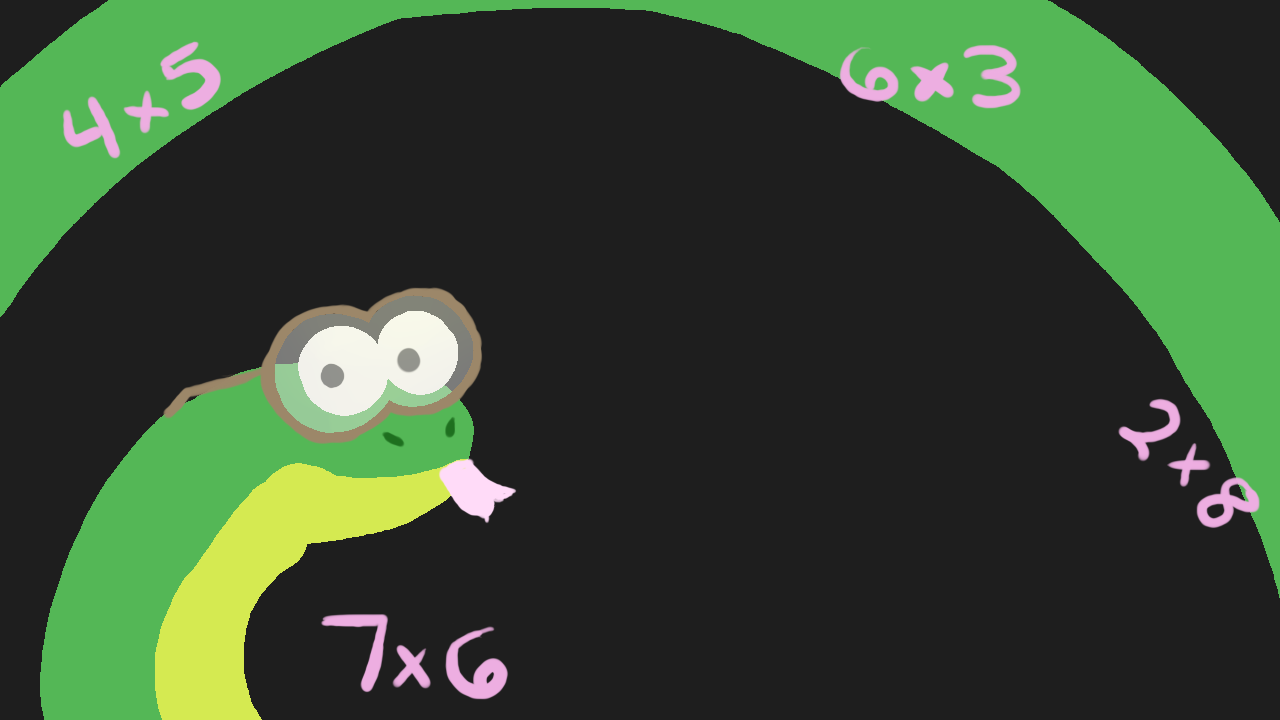
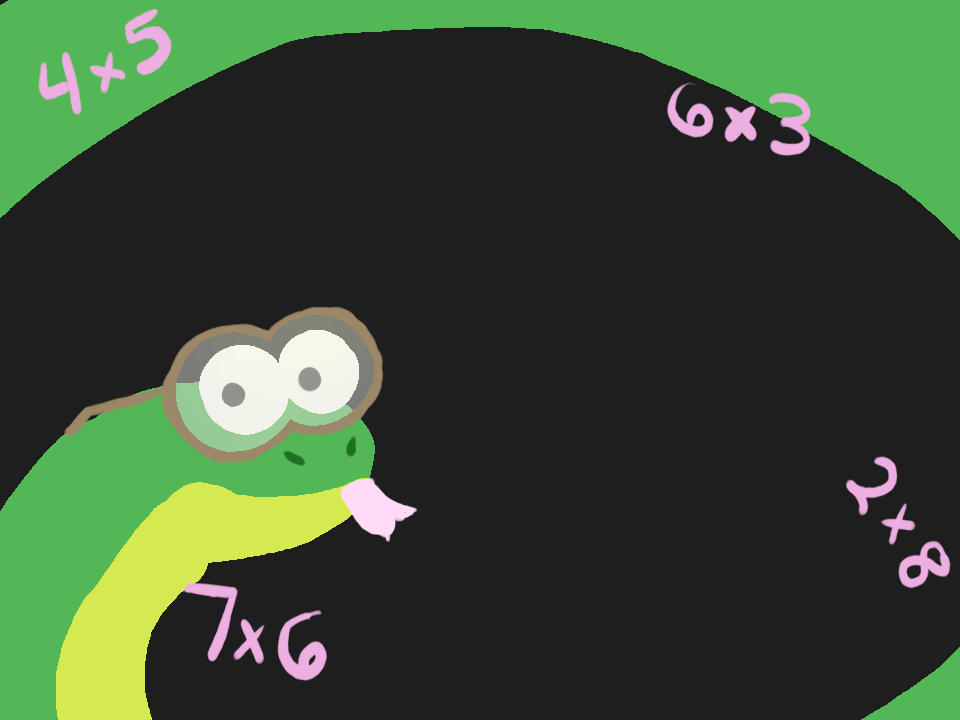
updated assets

diff --git a/mainGame.py b/mainGame.py
@@ -56,12 +56,12 @@ class gameClass:
         assets = path.join(path.dirname(__file__), 'assets')
 
         # image loading
-        self.snakeimg = pygame.image.load(path.join(assets + '/snake.png'))
-        self.snakebody = pygame.image.load(path.join(assets + '/body.png'))
-        self.snaketail = pygame.image.load(path.join(assets + '/tail.png'))
-        self.gameicon = pygame.image.load(path.join(assets + '/gameicon.png'))
+        self.snakeimg = pygame.image.load(path.join(assets + '/snake-head.png'))
+        self.snakebody = pygame.image.load(path.join(assets + '/snake-body.png'))
+        self.snaketail = pygame.image.load(path.join(assets + '/snake-tail.png'))
         self.appleimg = pygame.image.load(path.join(assets + '/apple.png'))
         self.startScreen = pygame.image.load(path.join(assets + '/start-screen.png'))
+        self.endScreen = pygame.image.load(path.join(assets + '/end-screen.png'))
 
         # moving block size
         self.block = 20
@@ -86,7 +86,7 @@ class gameClass:
 
     # function to print score
     def printScore(self,score):
-        text = self.smallfont.render("Score : " + str(score), True, self.black)
+        text = self.medfont.render("Score : " + str(score), True, self.black)
         self.screen.blit(text, [2,2])
 
     # function for random apple generation
@@ -105,12 +105,12 @@ class gameClass:
 
     # function to print multiplication problem
     def problem(self, numberOne, numberTwo):
-        text = self.smallfont.render(str(numberOne) + " X " + str(numberTwo) + " = ?", True, self.black)
+        text = self.medfont.render(str(numberOne) + " X " + str(numberTwo) + " = ?", True, self.black)
         self.screen.blit(text, [pygame.display.Info().current_w / 2, 2])
 
     # function for putting the number label on the apple
     def putNumInApple(self, num, (x, y)):
-        label = self.smallfont.render(str(num), True, self.yellow)
+        label = self.medfont.render(str(num), True, self.black)
         self.screen.blit(label, [x, y])
 
     # score getter
@@ -229,9 +229,9 @@ class gameClass:
                 continue
             else:
                 if gameOver == True:
-                    self.screen.fill(self.white)
+                    self.screen.blit(self.endScreen,(0,0))
                     self.message_to_display("Game Over", self.red, -70, "large")
-                    text = self.smallfont.render("Your final score is : " + str(self.get_score()), True, self.black)
+                    text = self.medfont.render("Your final score is : " + str(self.get_score()), True, self.red)
                     self.screen.blit(text, [100,100])
                     pygame.display.update()
                     continue
